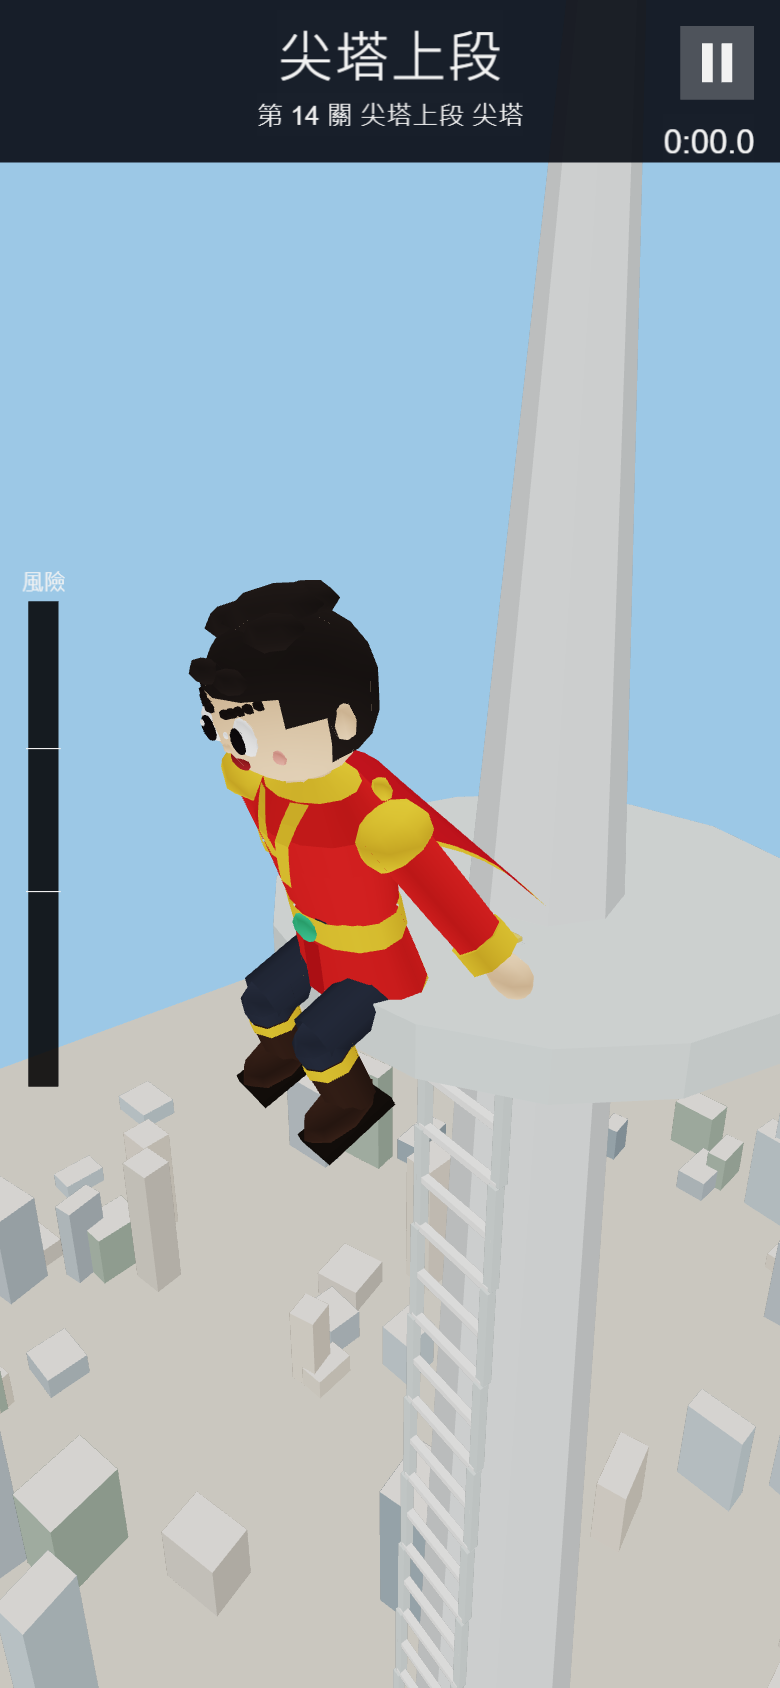
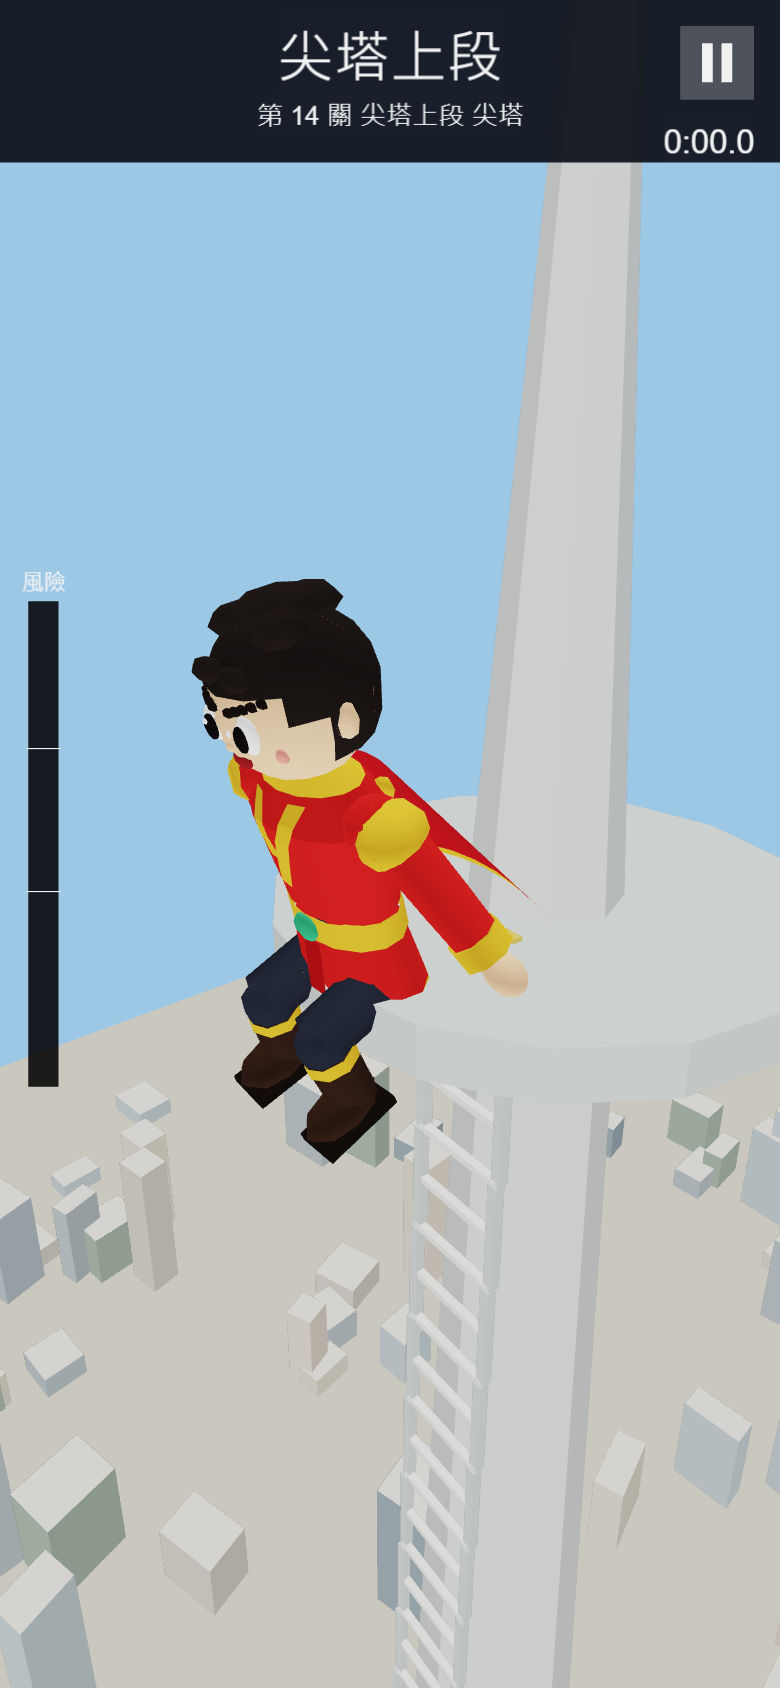
build: rebuild site; shoulder fix screenshots
Claude-Session: https://claude.ai/code/session_01Y2nEh36Y2Z1qyrjqEspWPK

diff --git a/site/assets/main/index.b2240.js b/site/assets/main/index.b2240.js
@@ -8,7 +8,7 @@ System.register("chunks:///_virtual/Climb.ts",["./rollupPluginModLoBabelHelpers.
 
 System.register("chunks:///_virtual/ClimbCore.ts",["./rollupPluginModLoBabelHelpers.js","cc"],(function(t){var i,e,s;return{setters:[function(t){i=t.createForOfIteratorHelperLoose,e=t.createClass},function(t){s=t.cclegacy}],execute:function(){function r(t){var i=t>>>0;return function(){var t=i=i+1831565813>>>0;return t=Math.imul(t^t>>>15,1|t),(((t^=t+Math.imul(t^t>>>7,61|t))^t>>>14)>>>0)/4294967296}}function h(t,i,e){return i+Math.floor(t()*(e-i+1))}t({buildWall:v,createRng:r,dangerAt:l,dirFromKeys:function(t,i,e,s){return{dx:(s?1:0)-(e?1:0),dy:(t?1:0)-(i?1:0)}},dirFromStick:function(t,i,e){if(Math.hypot(t,i)<e)return g;var s=Math.round(Math.atan2(i,t)/(Math.PI/4))*(Math.PI/4);return{dx:Math.round(Math.cos(s)),dy:Math.round(Math.sin(s))}},flareFor:u,formatClimbTime:function(t){var i=Math.floor(10*t),e=Math.floor(i/600),s=Math.floor(i%600/10);return e+":"+String(s).padStart(2,"0")+"."+i%10},hasSafeRoute:f,isObstacle:d,localCol:o,randomSeed:function(){return Math.floor(4294967296*Math.random())>>>0},wrapCol:a,zoneOf:c}),s._RF.push({},"2bb4d8STIVMfblj32Zn/zza","ClimbCore",void 0);var n=t("OBSTACLE_BLOCK_ROWS",12);function l(t,i){var e=t.flareRows>0&&i>=t.rows-t.flareRows;return Math.min(Math.floor((t.cols-1)/2),t.danger+(e?t.flareExtra:0))}function a(t,i){return t.faces>1?(i%t.ring+t.ring)%t.ring:i}function o(t,i){return a(t,i)%t.cols}function c(t,i,e){if(void 0===e&&(e=0),1===t.faces&&(i<0||i>=t.cols))return"out";var s=o(t,i),r=l(t,e);return s<r||s>=t.cols-r?"danger":"safe"}function u(t,i){var e=t.levels,s=e[0],r=e[1];return i.id>=s&&i.id<=r?{rows:t.topRows,extra:t.extraDangerPerSide}:{rows:0,extra:0}}function d(t,i,e){return t.obstacles.has(e*t.ring+a(t,i))}function f(t){var i=t.ring,e=t.rows;if("safe"!==c(t,t.startCol,0)||d(t,t.startCol,0))return!1;var s=new Uint8Array(i*e),r=[t.startCol];for(s[t.startCol]=1;r.length>0;){var h=r.pop(),n=Math.floor(h/i),l=h%i;if(n===e-1)return!0;for(var o=0,u=[[l,n+1],[l-1,n],[l+1,n],[l,n-1]];o<u.length;o++){var f=u[o],v=f[0],w=f[1];if(!(w<0||w>=e||"safe"!==c(t,v,w))){var g=w*i+a(t,v);s[g]||t.obstacles.has(g)||(s[g]=1,r.push(g))}}}return!1}function v(t,i,e,s,r){void 0===s&&(s={rows:0,extra:0}),void 0===r&&(r=1);for(var l=new Set,a={cols:t.cols,faces:r,ring:t.cols*r,rows:i.rows,safe:t.safe,danger:t.danger,startCol:Math.floor(t.cols/2),flareRows:Math.min(s.rows,i.rows),flareExtra:s.extra,obstacles:l},o=Math.ceil(i.rows/n),c=0;c<o;c++){var u=Math.max(1,c*n),d=Math.min(i.rows-1,(c+1)*n-1);if(!(u>d))for(var v=0;v<i.obstaclesPer12Rows*r;v++)for(var w=0;w<20;w++){var g=h(e,u,d)*a.ring+h(e,0,a.ring-1);if(!l.has(g)){if(l.add(g),f(a))break;l.delete(g)}}}return a}var w=t("EventScheduler",function(){function t(t,i,e){this.clock=0,this.state="idle",this.kind=null,this.left=0,this.activeTotal=0,this.windDir=1,this.queue=[],this.due=void 0,this.events=void 0,this.windChance=void 0,this.rng=void 0,this.events=t,this.windChance=i,this.rng=e,this.due={wind:t.wind.firstSec,rain:t.rain.firstSec,eagle:t.eagle.firstSec}}var s=t.prototype;return s.setWindChance=function(t){this.windChance=t},s.update=function(t){var e;this.clock+=t,this.tick(t);for(var s,r=i(["eagle","rain"]);!(s=r()).done;)for(var h=s.value;this.clock>=this.due[h];)this.due[h]+=this.events[h].everySec,this.queue.push(h);for(var n=!1;this.clock>=this.due.wind;){this.due.wind+=this.events.wind.everySec,"idle"===this.state&&0===this.queue.length&&!n&&this.rng()<this.windChance&&(n=!0)}if("idle"===this.state){var l=null!=(e=this.queue.shift())?e:n?"wind":null;l&&this.enter("warning",l,this.events.warningSec)}},s.tick=function(t){if("idle"!==this.state)for(this.left-=t;this.left<=0&&"idle"!==this.state;){var i=this.left;if("warning"===this.state){var e=this.kind,s=this.events[e].durationSec,r=s[0],h=s[1];this.activeTotal=r+this.rng()*(h-r),"wind"===e&&(this.windDir=this.rng()<.5?-1:1),this.enter("active",e,this.activeTotal+i)}else"active"===this.state?this.enter("cooldown",this.kind,this.events.cooldownSec+i):this.enter("idle",null,0)}},s.enter=function(t,i,e){this.state=t,this.kind=i,this.left=e},e(t,[{key:"activeKind",get:function(){return"active"===this.state?this.kind:null}},{key:"queued",get:function(){return this.queue}}]),t}()),g=t("NO_DIR",{dx:0,dy:0});t("FALL_TEXT",{edge:"太靠邊了…",wind:"風大時要抓牢",rain:"雨天手滑了",eagle:"被老鷹看到了"}),t("ClimbSim",function(){function t(t,i,e,s){this.level=void 0,this.levelIndex=void 0,this.wall=void 0,this.scheduler=void 0,this.seed=void 0,this.phase="climbing",this.fallCause=null,this.col=void 0,this.row=0,this.fromCol=void 0,this.fromRow=0,this.stepT=-1,this.pushed=!1,this.risk=0,this.gripping=!0,this.climbSec=0,this.maxRow=0,this.speed=1,this.eagleSpotSec=0,this.cfg=void 0,this.rng=void 0,this.prevMaxFloor=void 0,this.idleSec=0,this.holdSec=0,this.rainMoveSec=0,this.windPushSec=0,this.cfg=t,this.seed=e;var h=t.levels[i];if(!h)throw new Error("no level at index "+i);var n=t.widths[h.width];this.rng=s?s.rng:r(e),this.level=h,this.levelIndex=i;var l=1===n.cols?1:t.tower.faces;this.wall=v(n,h,this.rng,u(t.pagodaFlare,h),l),this.scheduler=s?s.scheduler:new w(t.events,h.windChance,this.rng),this.scheduler.setWindChance(h.windChance),this.risk=s?s.risk:0,this.climbSec=s?s.climbSec:0,this.prevMaxFloor=s?s.runMaxFloor:null,this.col=this.wall.startCol,this.fromCol=this.col,this.idleSec=t.player.gripDelaySec}var i=t.prototype;return i.next=function(){if("cleared"!==this.phase)return null;if(!this.cfg.levels[this.levelIndex+1])return null;var i=new t(this.cfg,this.levelIndex+1,this.seed,{rng:this.rng,scheduler:this.scheduler,risk:this.risk,climbSec:this.climbSec,runMaxFloor:this.runMaxFloor});return i.speed=this.speed,i},i.floorAt=function(t){var i=this.level,e=i.floorFrom,s=i.floorTo;if(null===e||null===s)return null;var r=e+Math.floor(Math.max(0,t)/this.cfg.player.rowsPerFloor);return Math.min(s,r)},i.update=function(t,i){if(!("climbing"!==this.phase||t<=0)){var e=this.cfg,s=e.player,r=e.risk;this.climbSec+=t,this.scheduler.update(t);var h=this.scheduler.activeKind,n=0!==i.dx||0!==i.dy;if(this.stepping&&(this.stepT+=t*this.speed/s.cellSec,this.stepT>=1)){var l=this.pushed;if(this.stepT=-1,this.pushed=!1,this.fromCol=this.col,this.fromRow=this.row,1===this.wall.faces&&(this.col<0||this.col>=this.wall.cols))return void this.fall(l?"wind":"edge");if(this.row>=this.wall.rows)return void(this.phase="cleared")}if("wind"===h&&n&&!this.onPlatform?(this.windPushSec+=t,!this.stepping&&this.windPushSec>=this.cfg.events.wind.pushEverySec&&(this.windPushSec-=this.cfg.events.wind.pushEverySec,this.push())):this.windPushSec=0,n&&!this.stepping){this.holdSec+=t;var a="crisis"===this.tier?s.crisisInputDelaySec:0;this.holdSec>=a&&this.tryStep(i)}else n||(this.holdSec=0);var o=n||this.stepping&&!this.pushed;o?(this.idleSec=0,this.gripping=!1):(this.idleSec+=t,this.gripping=this.idleSec>=s.gripDelaySec);var u=c(this.wall,this.col,Math.min(this.row,this.wall.rows-1)),d=0,f="edge";if(this.onPlatform?d+=r.calmGripPerSec:"danger"===u?d+=r.dangerPerSec:"safe"===u&&(d+=this.gripping?r.calmGripPerSec:r.calmClimbPerSec),"wind"===h&&o&&(d+=r.windMovePerSec,f="wind"),this.risk=Math.min(r.max,Math.max(0,this.risk+d*t)),"rain"===h&&o){if(this.rainMoveSec+=t,this.rainMoveSec>r.rainGraceSec)return void this.fall("rain")}else this.rainMoveSec=0;if("eagle"===h&&o){if(this.eagleSpotSec+=t,this.eagleSpotSec>=this.cfg.events.eagle.spotSec)return void this.fall("eagle")}else this.eagleSpotSec=0;this.risk>=r.max&&this.fall(f)}},i.push=function(){var t=(this.wall.cols-1)/2,i=o(this.wall,this.col),e=i<t?-1:i>t?1:this.scheduler.windDir,s=Math.min(this.row,this.wall.rows-1),r=a(this.wall,this.col+e);"out"!==c(this.wall,r,s)&&d(this.wall,r,s)||(this.fromCol=this.col,this.fromRow=this.row,this.col=r,this.stepT=0,this.pushed=!0)},i.tryStep=function(t){var i=[];0!==t.dy&&i.push([0,Math.sign(t.dy)]);var e=1===this.wall.cols,s=1===this.wall.faces&&this.onPlatform;if(0!==t.dx&&!e){var r=this.col+Math.sign(t.dx);s&&(r<0||r>=this.wall.cols)||i.push([Math.sign(t.dx),0])}for(var h=0,n=i;h<n.length;h++){var l=n[h],o=l[0],u=l[1],f=a(this.wall,this.col+o),v=this.row+u;if(!(v<0)&&!(v<this.wall.rows&&"out"!==c(this.wall,f,v)&&d(this.wall,f,v)))return this.fromCol=this.col,this.fromRow=this.row,this.col=f,this.row=v,this.maxRow=Math.max(this.maxRow,Math.min(v,this.wall.rows-1)),this.stepT=0,void(this.pushed=!1)}},i.fall=function(t){this.phase="fallen",this.fallCause=t,this.risk=this.cfg.risk.max,this.stepT=-1},e(t,[{key:"stepping",get:function(){return this.stepT>=0}},{key:"onPlatform",get:function(){return this.level.startPlatform&&0===this.row}},{key:"summit",get:function(){return"cleared"===this.phase&&this.levelIndex===this.cfg.levels.length-1}},{key:"tier",get:function(){var t=this.cfg.risk;return this.risk>=t.crisis?"crisis":this.risk>=t.tense?"tense":"safe"}},{key:"floor",get:function(){return this.floorAt(Math.min(this.row,this.wall.rows-1))}},{key:"maxFloor",get:function(){return this.floorAt(Math.min(this.maxRow,this.wall.rows-1))}},{key:"runMaxFloor",get:function(){var t=this.maxFloor;return null===t?this.prevMaxFloor:null===this.prevMaxFloor?t:Math.max(t,this.prevMaxFloor)}}]),t}());s._RF.pop()}}}));
 
-System.register("chunks:///_virtual/ClimberShape.ts",["./rollupPluginModLoBabelHelpers.js","cc"],(function(t){var r,o;return{setters:[function(t){r=t.createForOfIteratorHelperLoose},function(t){o=t.cclegacy}],execute:function(){function i(t){var r=parseInt(t.slice(1),16);return[(r>>16)/255,(r>>8&255)/255,(255&r)/255]}t("climberParts",(function(){return[d(),b()].concat(m("ArmL",-.36),m("ArmR",.36),L("LegL",-.15),L("LegR",.15))})),o._RF.push({},"c7d3aHiW4RPCp5hLYt8T5oT","ClimberShape",void 0);var a=t("CLIMBER_COL",{robe:i("#d62c2c"),robeDark:i("#a81e24"),cape:i("#b8202a"),gold:i("#e8b43a"),jade:i("#3faa78"),skin:i("#f2c39a"),blush:i("#f0968a"),hair:i("#2a2422"),pants:i("#2f3440"),boot:i("#3b2a22"),sole:i("#1e1814"),eyeWhite:i("#ffffff"),pupil:i("#1a1418"),brow:i("#231c1a"),mouth:i("#8e2a2e")}),e=n([.45,.75,.5]);function n(t){var r=Math.hypot(t[0],t[1],t[2])||1;return[t[0]/r,t[1]/r,t[2]/r]}var s=function(){function t(){this.positions=[],this.colors=[],this.indices=[]}var o=t.prototype;return o.vert=function(t,r,o){var i;return this.positions.push(t[0],t[1],t[2]),(i=this.colors).push.apply(i,function(t,r){var o=n(r),i=.74+.26*Math.abs(o[0]*e[0]+o[1]*e[1]+o[2]*e[2]);return[t[0]*i,t[1]*i,t[2]*i,1]}(o,r)),this.positions.length/3-1},o.quad=function(t,r,o){var i=this.vert(t[0],r[0],o);this.vert(t[1],r[1],o),this.vert(t[2],r[2],o),this.vert(t[3],r[3],o),this.indices.push(i,i+1,i+2,i,i+2,i+3)},o.flat=function(t,r,o,i,a){var e=[r[0]-t[0],r[1]-t[1],r[2]-t[2]],n=[i[0]-t[0],i[1]-t[1],i[2]-t[2]],s=[e[1]*n[2]-e[2]*n[1],e[2]*n[0]-e[0]*n[2],e[0]*n[1]-e[1]*n[0]];this.quad([t,r,o,i],[s,s,s,s],a)},o.ellipsoid=function(t,r,o,i,a,e){void 0===i&&(i=10),void 0===a&&(a=7);for(var n=function(t,r){var o=t/a*Math.PI,e=r/i*Math.PI*2;return[Math.sin(o)*Math.sin(e),Math.cos(o),Math.sin(o)*Math.cos(e)]},s=function(o){return[t[0]+o[0]*r[0],t[1]+o[1]*r[1],t[2]+o[2]*r[2]]},l=function(t){return[t[0]/r[0],t[1]/r[1],t[2]/r[2]]},h=0;h<a;h++)for(var u=0;u<i;u++)if(!e||e(n(h+.5,u+.5))){var v=[n(h,u),n(h,u+1),n(h+1,u+1),n(h+1,u)];this.quad(v.map(s),v.map(l),o)}},o.lathe=function(t,o,i,a,e,n){void 0===a&&(a=10),void 0===e&&(e=1),void 0===n&&(n={});for(var s,l=r(i);!(s=l()).done;)for(var h=s.value,u=h[0],v=h[1],f=h[2],p=h[3],c=h[4],d=p-v,b=Math.abs(d)<1e-6?0:-(f-u)/d,g=0;g<a;g++){for(var M,m=[],L=[],k=r([[g,u,v],[g+1,u,v],[g+1,f,p],[g,f,p]]);!(M=k()).done;){var w=M.value,y=w[0],R=w[1],I=w[2],P=y/a*Math.PI*2,q=Math.sin(P),x=Math.cos(P);m.push([t+q*R,I,o+x*R*e]),L.push(Math.abs(d)<1e-6?[0,f<u?1:-1,0]:[q,b,x/e])}this.quad(m,L,c)}var C=i[0],F=i[i.length-1];n.bottom&&this.disc(t,o,C[0],C[1],e,a,n.bottom,-1),n.top&&this.disc(t,o,F[2],F[3],e,a,n.top,1)},o.disc=function(t,r,o,i,a,e,n,s){for(var l=[0,s,0],h=this.vert([t,i,r],l,n),u=0;u<=e;u++){var v=u/e*Math.PI*2;this.vert([t+Math.sin(v)*o,i,r+Math.cos(v)*o*a],l,n)}for(var f=0;f<e;f++)this.indices.push(h,h+1+f,h+2+f)},o.box=function(t,r,o){var i=r[0]/2,a=r[1]/2,e=r[2]/2,n=function(r,o,n){return[t[0]+r*i,t[1]+o*a,t[2]+n*e]};this.flat(n(-1,-1,1),n(1,-1,1),n(1,1,1),n(-1,1,1),o),this.flat(n(1,-1,-1),n(-1,-1,-1),n(-1,1,-1),n(1,1,-1),o),this.flat(n(1,-1,1),n(1,-1,-1),n(1,1,-1),n(1,1,1),o),this.flat(n(-1,-1,-1),n(-1,-1,1),n(-1,1,1),n(-1,1,-1),o),this.flat(n(-1,1,1),n(1,1,1),n(1,1,-1),n(-1,1,-1),o),this.flat(n(-1,-1,-1),n(1,-1,-1),n(1,-1,1),n(-1,-1,1),o)},o.part=function(t,r,o){return void 0===o&&(o="Body"),{name:t,parent:o,pivot:r,positions:this.positions,colors:this.colors,indices:this.indices}},t}(),l=[0,1.52,0],h=[.25,.245,.24],u=.62;function v(t,r){var o=t/h[0],i=(r-l[1])/h[1];return l[2]-h[2]*Math.sqrt(Math.max(0,1-o*o-i*i))}var f=[[.46,.29],[.52,.285],[.73,.24],[.83,.24],[1.02,.27],[1.14,.285],[1.25,.2],[1.29,.1]];function p(t,r,o){void 0===o&&(o=.008);var i=function(t){for(var r=1;r<f.length;r++){var o=f[r-1],i=o[0],a=o[1],e=f[r],n=e[0],s=e[1];if(t<=n)return a+(s-a)*Math.max(0,(t-i)/(n-i))}return f[f.length-1][1]}(r);return[t,r,-.62*Math.sqrt(Math.max(0,i*i-t*t))-o]}function c(t,r,o,i,a){for(var e=0;e<5;e++){var n=e/5,s=(e+1)/5,l=function(t,a){return p(r[0]+(o[0]-r[0])*t+a*i/2,r[1]+(o[1]-r[1])*t)};t.flat(l(n,-1),l(n,1),l(s,1),l(s,-1),a)}}function d(){var t=a,o=new s;o.lathe(0,0,[[.29,.46,.285,.52,t.gold],[.285,.52,.24,.73,t.robe],[.25,.73,.25,.83,t.gold],[.24,.83,.27,1.02,t.robe],[.27,1.02,.285,1.14,t.robe],[.285,1.14,.2,1.25,t.robe],[.2,1.25,.1,1.29,t.gold]],14,u,{bottom:t.pants}),o.lathe(0,0,[[.085,1.26,.085,1.38,t.skin]],8);var i;c(o,[-.1,1.25],[.03,.94],.065,t.gold),c(o,[.1,1.25],[.02,1.05],.06,t.gold),o.ellipsoid([0,.78,(i=.25,-i*u-.006)],[.06,.05,.025],t.jade,8,5),c(o,[0,.725],[0,.525],.09,t.robeDark);for(var e=0,n=[-1,1];e<n.length;e++){var f=n[e];o.ellipsoid([.17*f,1.2,.13],[.04,.04,.03],t.gold,6,4)}o.ellipsoid(l,h,t.skin,14,10);for(var p=0,d=[-1,1];p<d.length;p++){var b=d[p];o.ellipsoid([.245*b,1.5,.01],[.04,.06,.04],t.skin,6,4)}o.ellipsoid([0,1.535,.012],[.265,.262,.256],t.hair,14,10,(function(t){return t[1]>.32||t[2]>-.15&&t[1]>-.6||Math.abs(t[0])>.82&&t[1]>-.1}));for(var g,M=r([[0,1.775,.02,.15,.06,.15],[-.1,1.755,-.05,.09,.05,.09],[.1,1.755,-.05,.09,.05,.09],[0,1.765,.12,.12,.05,.1],[-.07,1.665,-.2,.07,.035,.04],[.06,1.67,-.2,.08,.035,.04]]);!(g=M()).done;){var m=g.value,L=m[0],k=m[1],w=m[2],y=m[3],R=m[4],I=m[5];o.ellipsoid([L,k,w],[y,R,I],t.hair,7,4)}for(var P=0,q=[-1,1];P<q.length;P++){var x=q[P],C=.09*x,F=1.51;o.ellipsoid([C,F,v(C,F)+.012],[.05,.06,.022],t.eyeWhite,8,6);var S=.082*x;o.ellipsoid([S,1.504,v(S,F)-.006],[.031,.041,.016],t.pupil,8,6);var W=.072*x+.012;o.ellipsoid([W,1.526,v(W,F)-.02],[.011,.011,.006],t.eyeWhite,5,4);for(var B=0;B<5;B++){var E=x*(.042+.026*B),_=1.574+.007*B;o.ellipsoid([E,_,v(E,_)+.002],[.026,.016,.014],t.brow,5,3)}var j=.155*x;o.ellipsoid([j,1.445,v(j,1.445)+.008],[.042,.024,.012],t.blush,6,4)}return o.ellipsoid([0,1.462,v(0,1.462)+.006],[.02,.02,.018],t.skin,5,3),o.ellipsoid([0,1.408,v(0,1.408)+.008],[.052,.028,.014],t.mouth,8,5),o.part("Torso",[0,0,0])}function b(){for(var t=a,r=new s,o=[0,.22,.44,.66,.86,.93,1],i=function(t,r){return[(2*t-1)*(.22+.13*r),.74*-r,.02+.08*r+.05*(1-Math.pow(2*t-1,2))]},e=0;e+1<o.length;e++)for(var n=0;n<6;n++){var l=o[e],h=o[e+1],u=n/6,v=(n+1)/6;r.flat(i(u,l),i(v,l),i(v,h),i(u,h),e===o.length-2?t.gold:t.cape)}return r.part("Cape",[0,1.21,.14])}var g=t("ELBOW",.3),M=t("KNEE",.3);function m(t,r){var o=a,i=new s;i.ellipsoid([0,.03,0],[.12,.095,.12],o.gold,8,6),i.lathe(0,0,[[.088,0,.083,g+.02,o.robe]],8);var e=new s;e.ellipsoid([0,0,0],[.083,.05,.083],o.robe,8,4),e.lathe(0,0,[[.083,0,.08,.42-g,o.robe],[.09,.42-g,.09,.5-g,o.gold]],8),e.ellipsoid([0,.585-g,0],[.068,.082,.062],o.skin,8,6);var n="ArmL"===t?"ForearmL":"ForearmR";return[i.part(t,[r,1.2,0]),e.part(n,[0,g,0],t)]}function L(t,r){var o=a,i=new s;i.lathe(0,0,[[.1,0,.094,-M-.02,o.pants]],8);var e=new s;e.ellipsoid([0,0,0],[.094,.05,.094],o.pants,8,4),e.lathe(0,0,[[.094,0,.088,-.36+M,o.pants],[.094,-.36+M,.094,-.41+M,o.gold],[.09,-.41+M,.086,-.58+M,o.boot]],8),e.ellipsoid([0,-.585+M,-.06],[.09,.065,.15],o.boot,8,6),e.box([0,-.64+M,-.055],[.17,.035,.29],o.sole);var n="LegL"===t?"ShinL":"ShinR";return[i.part(t,[r,.55,0]),e.part(n,[0,-M,0],t)]}o._RF.pop()}}}));
+System.register("chunks:///_virtual/ClimberShape.ts",["./rollupPluginModLoBabelHelpers.js","cc"],(function(t){var r,o;return{setters:[function(t){r=t.createForOfIteratorHelperLoose},function(t){o=t.cclegacy}],execute:function(){function i(t){var r=parseInt(t.slice(1),16);return[(r>>16)/255,(r>>8&255)/255,(255&r)/255]}t("climberParts",(function(){return[d(),b()].concat(L("ArmL",-1*g),L("ArmR",g),k("LegL",-.15),k("LegR",.15))})),o._RF.push({},"c7d3aHiW4RPCp5hLYt8T5oT","ClimberShape",void 0);var a=t("CLIMBER_COL",{robe:i("#d62c2c"),robeDark:i("#a81e24"),cape:i("#b8202a"),gold:i("#e8b43a"),jade:i("#3faa78"),skin:i("#f2c39a"),blush:i("#f0968a"),hair:i("#2a2422"),pants:i("#2f3440"),boot:i("#3b2a22"),sole:i("#1e1814"),eyeWhite:i("#ffffff"),pupil:i("#1a1418"),brow:i("#231c1a"),mouth:i("#8e2a2e")}),e=n([.45,.75,.5]);function n(t){var r=Math.hypot(t[0],t[1],t[2])||1;return[t[0]/r,t[1]/r,t[2]/r]}var s=function(){function t(){this.positions=[],this.colors=[],this.indices=[]}var o=t.prototype;return o.vert=function(t,r,o){var i;return this.positions.push(t[0],t[1],t[2]),(i=this.colors).push.apply(i,function(t,r){var o=n(r),i=.74+.26*Math.abs(o[0]*e[0]+o[1]*e[1]+o[2]*e[2]);return[t[0]*i,t[1]*i,t[2]*i,1]}(o,r)),this.positions.length/3-1},o.quad=function(t,r,o){var i=this.vert(t[0],r[0],o);this.vert(t[1],r[1],o),this.vert(t[2],r[2],o),this.vert(t[3],r[3],o),this.indices.push(i,i+1,i+2,i,i+2,i+3)},o.flat=function(t,r,o,i,a){var e=[r[0]-t[0],r[1]-t[1],r[2]-t[2]],n=[i[0]-t[0],i[1]-t[1],i[2]-t[2]],s=[e[1]*n[2]-e[2]*n[1],e[2]*n[0]-e[0]*n[2],e[0]*n[1]-e[1]*n[0]];this.quad([t,r,o,i],[s,s,s,s],a)},o.ellipsoid=function(t,r,o,i,a,e){void 0===i&&(i=10),void 0===a&&(a=7);for(var n=function(t,r){var o=t/a*Math.PI,e=r/i*Math.PI*2;return[Math.sin(o)*Math.sin(e),Math.cos(o),Math.sin(o)*Math.cos(e)]},s=function(o){return[t[0]+o[0]*r[0],t[1]+o[1]*r[1],t[2]+o[2]*r[2]]},l=function(t){return[t[0]/r[0],t[1]/r[1],t[2]/r[2]]},h=0;h<a;h++)for(var u=0;u<i;u++)if(!e||e(n(h+.5,u+.5))){var v=[n(h,u),n(h,u+1),n(h+1,u+1),n(h+1,u)];this.quad(v.map(s),v.map(l),o)}},o.lathe=function(t,o,i,a,e,n){void 0===a&&(a=10),void 0===e&&(e=1),void 0===n&&(n={});for(var s,l=r(i);!(s=l()).done;)for(var h=s.value,u=h[0],v=h[1],f=h[2],p=h[3],c=h[4],d=p-v,b=Math.abs(d)<1e-6?0:-(f-u)/d,g=0;g<a;g++){for(var M,m=[],L=[],k=r([[g,u,v],[g+1,u,v],[g+1,f,p],[g,f,p]]);!(M=k()).done;){var w=M.value,y=w[0],R=w[1],I=w[2],P=y/a*Math.PI*2,q=Math.sin(P),x=Math.cos(P);m.push([t+q*R,I,o+x*R*e]),L.push(Math.abs(d)<1e-6?[0,f<u?1:-1,0]:[q,b,x/e])}this.quad(m,L,c)}var C=i[0],S=i[i.length-1];n.bottom&&this.disc(t,o,C[0],C[1],e,a,n.bottom,-1),n.top&&this.disc(t,o,S[2],S[3],e,a,n.top,1)},o.disc=function(t,r,o,i,a,e,n,s){for(var l=[0,s,0],h=this.vert([t,i,r],l,n),u=0;u<=e;u++){var v=u/e*Math.PI*2;this.vert([t+Math.sin(v)*o,i,r+Math.cos(v)*o*a],l,n)}for(var f=0;f<e;f++)this.indices.push(h,h+1+f,h+2+f)},o.box=function(t,r,o){var i=r[0]/2,a=r[1]/2,e=r[2]/2,n=function(r,o,n){return[t[0]+r*i,t[1]+o*a,t[2]+n*e]};this.flat(n(-1,-1,1),n(1,-1,1),n(1,1,1),n(-1,1,1),o),this.flat(n(1,-1,-1),n(-1,-1,-1),n(-1,1,-1),n(1,1,-1),o),this.flat(n(1,-1,1),n(1,-1,-1),n(1,1,-1),n(1,1,1),o),this.flat(n(-1,-1,-1),n(-1,-1,1),n(-1,1,1),n(-1,1,-1),o),this.flat(n(-1,1,1),n(1,1,1),n(1,1,-1),n(-1,1,-1),o),this.flat(n(-1,-1,-1),n(1,-1,-1),n(1,-1,1),n(-1,-1,1),o)},o.part=function(t,r,o){return void 0===o&&(o="Body"),{name:t,parent:o,pivot:r,positions:this.positions,colors:this.colors,indices:this.indices}},t}(),l=[0,1.52,0],h=[.25,.245,.24],u=.62;function v(t,r){var o=t/h[0],i=(r-l[1])/h[1];return l[2]-h[2]*Math.sqrt(Math.max(0,1-o*o-i*i))}var f=[[.46,.29],[.52,.285],[.73,.24],[.83,.24],[1.02,.275],[1.16,.3],[1.27,.21],[1.3,.1]];function p(t,r,o){void 0===o&&(o=.008);var i=function(t){for(var r=1;r<f.length;r++){var o=f[r-1],i=o[0],a=o[1],e=f[r],n=e[0],s=e[1];if(t<=n)return a+(s-a)*Math.max(0,(t-i)/(n-i))}return f[f.length-1][1]}(r);return[t,r,-.62*Math.sqrt(Math.max(0,i*i-t*t))-o]}function c(t,r,o,i,a){for(var e=0;e<5;e++){var n=e/5,s=(e+1)/5,l=function(t,a){return p(r[0]+(o[0]-r[0])*t+a*i/2,r[1]+(o[1]-r[1])*t)};t.flat(l(n,-1),l(n,1),l(s,1),l(s,-1),a)}}function d(){var t=a,o=new s;o.lathe(0,0,[[.29,.46,.285,.52,t.gold],[.285,.52,.24,.73,t.robe],[.25,.73,.25,.83,t.gold],[.24,.83,.275,1.02,t.robe],[.275,1.02,.3,1.16,t.robe],[.3,1.16,.21,1.27,t.robe],[.21,1.27,.1,1.3,t.gold]],14,u,{bottom:t.pants});for(var i=0,e=[-1,1];i<e.length;i++){var n=e[i];o.ellipsoid([.29*n,1.17,0],[.11,.1,.105],t.robe,8,6)}o.lathe(0,0,[[.085,1.26,.085,1.38,t.skin]],8);var f;c(o,[-.1,1.25],[.03,.94],.065,t.gold),c(o,[.1,1.25],[.02,1.05],.06,t.gold),o.ellipsoid([0,.78,(f=.25,-f*u-.006)],[.06,.05,.025],t.jade,8,5),c(o,[0,.725],[0,.525],.09,t.robeDark);for(var p=0,d=[-1,1];p<d.length;p++){var b=d[p];o.ellipsoid([.17*b,1.2,.13],[.04,.04,.03],t.gold,6,4)}o.ellipsoid(l,h,t.skin,14,10);for(var g=0,M=[-1,1];g<M.length;g++){var m=M[g];o.ellipsoid([.245*m,1.5,.01],[.04,.06,.04],t.skin,6,4)}o.ellipsoid([0,1.535,.012],[.265,.262,.256],t.hair,14,10,(function(t){return t[1]>.32||t[2]>-.15&&t[1]>-.6||Math.abs(t[0])>.82&&t[1]>-.1}));for(var L,k=r([[0,1.775,.02,.15,.06,.15],[-.1,1.755,-.05,.09,.05,.09],[.1,1.755,-.05,.09,.05,.09],[0,1.765,.12,.12,.05,.1],[-.07,1.665,-.2,.07,.035,.04],[.06,1.67,-.2,.08,.035,.04]]);!(L=k()).done;){var w=L.value,y=w[0],R=w[1],I=w[2],P=w[3],q=w[4],x=w[5];o.ellipsoid([y,R,I],[P,q,x],t.hair,7,4)}for(var C=0,S=[-1,1];C<S.length;C++){var E=S[C],F=.09*E,W=1.51;o.ellipsoid([F,W,v(F,W)+.012],[.05,.06,.022],t.eyeWhite,8,6);var _=.082*E;o.ellipsoid([_,1.504,v(_,W)-.006],[.031,.041,.016],t.pupil,8,6);var B=.072*E+.012;o.ellipsoid([B,1.526,v(B,W)-.02],[.011,.011,.006],t.eyeWhite,5,4);for(var H=0;H<5;H++){var O=E*(.042+.026*H),j=1.574+.007*H;o.ellipsoid([O,j,v(O,j)+.002],[.026,.016,.014],t.brow,5,3)}var A=.155*E;o.ellipsoid([A,1.445,v(A,1.445)+.008],[.042,.024,.012],t.blush,6,4)}return o.ellipsoid([0,1.462,v(0,1.462)+.006],[.02,.02,.018],t.skin,5,3),o.ellipsoid([0,1.408,v(0,1.408)+.008],[.052,.028,.014],t.mouth,8,5),o.part("Torso",[0,0,0])}function b(){for(var t=a,r=new s,o=[0,.22,.44,.66,.86,.93,1],i=function(t,r){return[(2*t-1)*(.22+.13*r),.74*-r,.02+.08*r+.05*(1-Math.pow(2*t-1,2))]},e=0;e+1<o.length;e++)for(var n=0;n<6;n++){var l=o[e],h=o[e+1],u=n/6,v=(n+1)/6;r.flat(i(u,l),i(v,l),i(v,h),i(u,h),e===o.length-2?t.gold:t.cape)}return r.part("Cape",[0,1.21,.14])}var g=t("SHOULDER_X",.33),M=t("ELBOW",.3),m=t("KNEE",.3);function L(t,r){var o=a,i=new s;i.ellipsoid([0,.03,0],[.12,.095,.12],o.gold,8,6),i.lathe(0,0,[[.088,0,.083,M+.02,o.robe]],8);var e=new s;e.ellipsoid([0,0,0],[.083,.05,.083],o.robe,8,4),e.lathe(0,0,[[.083,0,.08,.42-M,o.robe],[.09,.42-M,.09,.5-M,o.gold]],8),e.ellipsoid([0,.585-M,0],[.068,.082,.062],o.skin,8,6);var n="ArmL"===t?"ForearmL":"ForearmR";return[i.part(t,[r,1.19,0]),e.part(n,[0,M,0],t)]}function k(t,r){var o=a,i=new s;i.lathe(0,0,[[.1,0,.094,-m-.02,o.pants]],8);var e=new s;e.ellipsoid([0,0,0],[.094,.05,.094],o.pants,8,4),e.lathe(0,0,[[.094,0,.088,-.36+m,o.pants],[.094,-.36+m,.094,-.41+m,o.gold],[.09,-.41+m,.086,-.58+m,o.boot]],8),e.ellipsoid([0,-.585+m,-.06],[.09,.065,.15],o.boot,8,6),e.box([0,-.64+m,-.055],[.17,.035,.29],o.sole);var n="LegL"===t?"ShinL":"ShinR";return[i.part(t,[r,.55,0]),e.part(n,[0,-m,0],t)]}o._RF.pop()}}}));
 
 System.register("chunks:///_virtual/ClimbSpeed.ts",["cc"],(function(e){var n;return{setters:[function(e){n=e.cclegacy}],execute:function(){e({effectiveSpeed:function(e,n,t){return e&&n.includes(t)?t:1},nextSpeed:function(e,n){var t,c=e.indexOf(n);return null!=(t=e[(c+1)%e.length])?t:1},speedText:function(e){return"×"+e}}),n._RF.push({},"4ed0cb4bphAMqLLtric5bsO","ClimbSpeed",void 0),n._RF.pop()}}}));
 

diff --git a/site/application.1e53e.js b/site/application.1e53e.js
@@ -14,7 +14,7 @@ System.register([], function (_export, _context) {
       _export("Application", Application = /*#__PURE__*/function () {
         function Application() {
           _classCallCheck(this, Application);
-          this.settingsPath = 'src/settings.768d6.json';
+          this.settingsPath = 'src/settings.0144c.json';
           this.showFPS = false;
         }
         _createClass(Application, [{

diff --git a/site/index.html b/site/index.html
@@ -61,7 +61,7 @@
 <script src="src/import-map.4a4e2.json" type="systemjs-importmap" charset="utf-8"> </script>
 
 <script>
-    System.import('./index.f5e6b.js').catch(function(err) { console.error(err); })
+    System.import('./index.14021.js').catch(function(err) { console.error(err); })
 </script>
 
 </body>

diff --git a/site/index.14021.js b/site/index.14021.js
@@ -1,4 +1,4 @@
-System.register(["./application.cafa1.js"], function (_export, _context) {
+System.register(["./application.1e53e.js"], function (_export, _context) {
   "use strict";
 
   var Application, canvas, $p, bcr, application;
